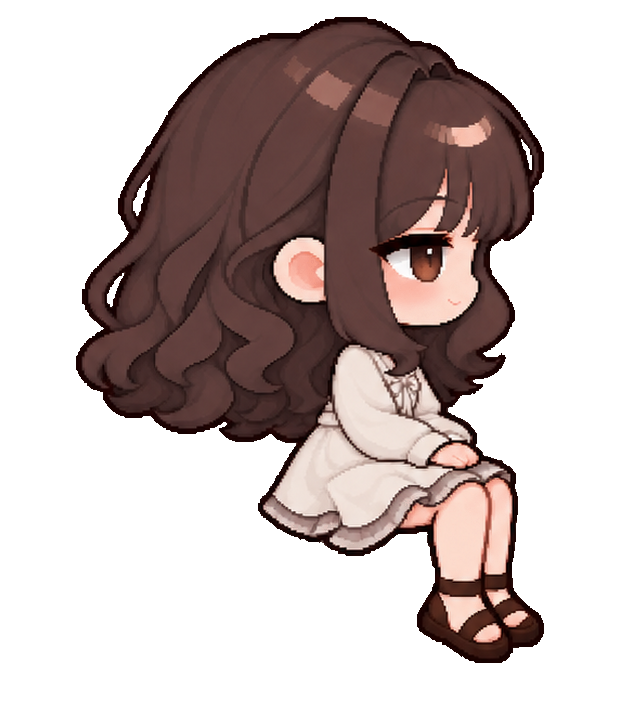
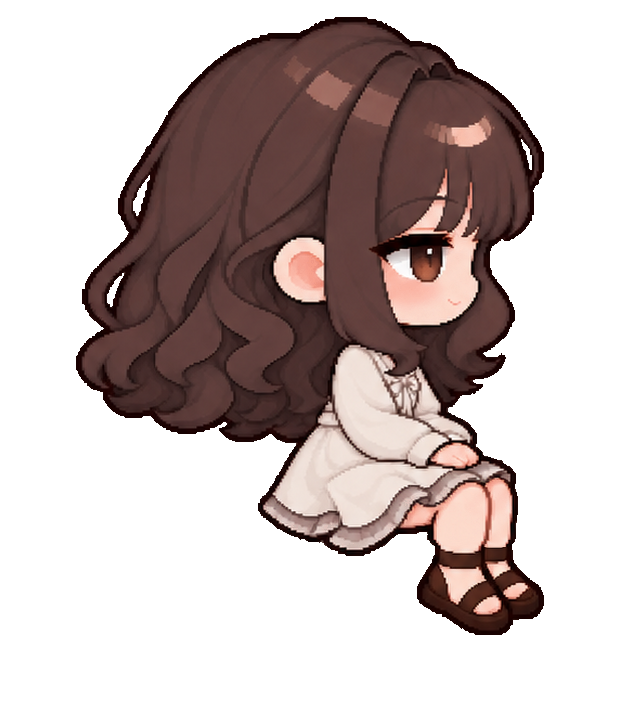
0.9.49 소망 긴 의자 앉기: 종아리 28px 짧게(사용자 3번)
무릎 아래~발목 끈 위만(legshorten.py 533 580 28 436 400 558), 허벅지·치마·샌들 그대로.
원본 sit-trio-v190/sources/somang-right-bench-0-before-legs.png, 게임 캡처 0949-somang-bench-legs-game.png.

Claude-Session: https://claude.ai/code/session_01VEprA6JeTcQVX6tKD4oAcT

Changed region(s): [[0.6742, 0.7333, 0.8887, 0.9472]]

diff --git a/src/core/settings.js b/src/core/settings.js
@@ -2,7 +2,7 @@
 
 import { ctx } from './st.js';
 
-export const VERSION = '0.9.48';
+export const VERSION = '0.9.49';
 export const MODULE = 'sand_feather';
 export const PROMPT_KEY = 'sand_feather_world';
 export const UI_THEMES = [

diff --git a/docs/OPUS-HANDOFF.md b/docs/OPUS-HANDOFF.md
@@ -1,6 +1,6 @@
 # 오푸스 인수인계 — 게임 적용과 코드 (지금 기준만)
 
-**오푸스용 문서다.** 갱신 2026-10-12, **0.9.48** 기준. 처음 온 오푸스는 이 문서 하나만 처음부터 끝까지 읽으면 바로 일할 수 있게 썼다. 버전별 변경은 `CHANGELOG.md`, 작업별 상세는 아래 표의 기록 문서에 있다. 그림 작업 규칙은 아스트라용 [ASTRA-HANDOFF.md](ASTRA-HANDOFF.md)·[ASTRA-PLAN.md](ASTRA-PLAN.md)에 있다. 아트를 받을 때 채택 상태와 명세를 확인하는 용도로 본다.
+**오푸스용 문서다.** 갱신 2026-10-12, **0.9.49** 기준. 처음 온 오푸스는 이 문서 하나만 처음부터 끝까지 읽으면 바로 일할 수 있게 썼다. 버전별 변경은 `CHANGELOG.md`, 작업별 상세는 아래 표의 기록 문서에 있다. 그림 작업 규칙은 아스트라용 [ASTRA-HANDOFF.md](ASTRA-HANDOFF.md)·[ASTRA-PLAN.md](ASTRA-PLAN.md)에 있다. 아트를 받을 때 채택 상태와 명세를 확인하는 용도로 본다.
 
 ## 이 게임
 
@@ -50,7 +50,7 @@ SillyTavern 확장 "모래와 깃털"이다. 이집트 옴보스를 배경으로
 
 ## 버전과 검증
 
-- 버전은 `manifest.json`의 `version`과 `src/core/settings.js`의 `VERSION`을 같이 올린다. 지금은 **0.9.48**이다. 올릴 때 `CHANGELOG.md` 맨 위에 한 줄, README의 "현재 버전" 줄, 이 문서의 이 줄과 맨 위 기준 버전도 고친다. README에는 버전 내역을 쌓지 않는다.
+- 버전은 `manifest.json`의 `version`과 `src/core/settings.js`의 `VERSION`을 같이 올린다. 지금은 **0.9.49**이다. 올릴 때 `CHANGELOG.md` 맨 위에 한 줄, README의 "현재 버전" 줄, 이 문서의 이 줄과 맨 위 기준 버전도 고친다. README에는 버전 내역을 쌓지 않는다.
 - **검증 스크립트 세 개**(`tools/art/`, ST가 떠 있고 확장이 들어가 있어야 함). 출력 폴더를 인자로 준다. 셋 다 exit 0이어야 한다:
   ```sh
   export NODE_PATH=/opt/node-tools/node_modules
@@ -73,7 +73,7 @@ SillyTavern 확장 "모래와 깃털"이다. 이집트 옴보스를 배경으로
   - `bed-measure.js <폴더> '<[누구,[x,y,방향],이름] 목록>' [방]`: 한 사람만 침대 자리에 눕힌 화면과 뺀 화면. 두 장 차이의 박스가 그 사람(머리 위끝·턱 높이 재기)
   - 폰 크기는 412×900. 안채나 맵을 고치면 출구 걷기·낮밤도 본다.
 
-## 게임 지금 상태 — 0.9.48
+## 게임 지금 상태 — 0.9.49
 
 | 영역 | 내용 | 자세한 기록 |
 |---|---|---|
@@ -126,6 +126,7 @@ SillyTavern 확장 "모래와 깃털"이다. 이집트 옴보스를 배경으로
 | `register.py 사용자그림 우리png 출력` | 사용자가 보낸 스크린샷·JPG를 우리 캔버스에 맞춰 놓는다(안 고친 위쪽으로 배율·위치 찾기, 오차 6 아래면 맞음, `--scales`를 좁히면 몇 초) | 턱 수정본: 배율 1.67, 오차 3.9 |
 | `jawfit.py png 사용자 out [cx,cy]` | 우리 선을 사용자 선 위치로 늘림 | **사용자 반응 "네모야":** 위치만 맞고 우리 두꺼운 선 모양이 남는다. 쓰지 말고 아래 것 |
 | `jawpaste.py png 사용자 out [cx,cy]` | 아래 반원 얼굴선 띠를 사용자 그림 픽셀로. 우리 쪽 남는 선은 사용자 그림대로 목·배경으로, 배경 쪽 가장자리는 잉크색+투명도(크림색 테두리 없음) | 0.9.39 채택("JPG 깨짐을 어떻게 반영하나 걱정했는데"). 어두운 배경(`panels.py --bg 60,90,60`)에 얹어 테두리가 없는지 본다 |
+| `legshorten.py in out y0 y1 D xcalf xfoot yfoot` | 앉은 그림의 종아리만 D px 짧게: 다리를 층으로 떼어 y0~y1(허벅지 아래 끝~발목 끈 위)만 줄이고 끈·샌들은 그대로 위로. y0은 허벅지 아래 끝 행으로(더 위에서 시작하면 비스듬한 종아리 외곽선이 계단처럼 남는다), 줄이는 양은 그 구간의 2/3까지 | 소망 긴 의자 0.9.49: 533 580 28 436 400 558 |
 | `match-art.py A 박스 B 찾을곳` | 같은 가구가 다른 방 그림에 다른 크기로 있을 때 배율·위치(칸)와 옮기는 식 | 호루스 침대 = 세트 침대 91 %, 상관 0.946 |
 | `panels.py`, `combo-sheet.py`, `seat-sheet.py` | 사용자에게 보낼 비교 시트, 침대 9가지 시트, 앉을 곳 × 셋 시트 | |
 

diff --git a/CHANGELOG.md b/CHANGELOG.md
@@ -2,6 +2,8 @@
 
 README에서 옮긴 버전별 변경 내역이다. 위가 최신이다. 지금 상태는 [README](README.md)와 [오푸스 인수인계](docs/OPUS-HANDOFF.md)를 본다.
 
+**0.9.49:** 소망 긴 의자 앉기 그림의 종아리를 28px 짧게(무릎 아래~발목 끈 위만, 허벅지·치마·샌들 모양 그대로). 세트·호루스와 다리 길이가 맞는다. 원본 `sit-trio-v190/sources/somang-right-bench-0-before-legs.png`.
+
 **0.9.48:** 소망 방 긴 의자에 앉는 자리를 사용자 스케치대로 의자 앞 끝으로(다리가 의자 끝에 걸침): 소망·호루스 (2.68, 7.16), 세트 (2.52, 7.12). 자리에 사람별 `who`. 옆 작은 탁자 위로 간 무릎·정강이 끝은 탁자 외곽선에 맞춰 가린다.
 
 **0.9.47:** 방석 옆자리에서 테이블 위로 뻗은 다리·발(세트), 치마 끝(소망), 무릎 끝(호루스)이 테이블 밑으로 들어간다. 세트 방 낮은 탁자와 식탁 그림의 외곽선 픽셀에 맞춰 그 부분만 가리고, 머리카락은 그대로 보인다. 가림에 자세별 거르기(`only`)를 더했다.

diff --git a/README.md b/README.md
@@ -20,7 +20,7 @@
 
 세트·호루스 RP 채팅 옆에서 돌아가는 이집트 오픈월드 게임이다. SillyTavern 확장으로 동작한다.
 
-**현재 버전 0.9.48.** 버전별 변경 내역은 [CHANGELOG.md](CHANGELOG.md)에 있다.
+**현재 버전 0.9.49.** 버전별 변경 내역은 [CHANGELOG.md](CHANGELOG.md)에 있다.
 
 ## 작업자는 여기부터
 
